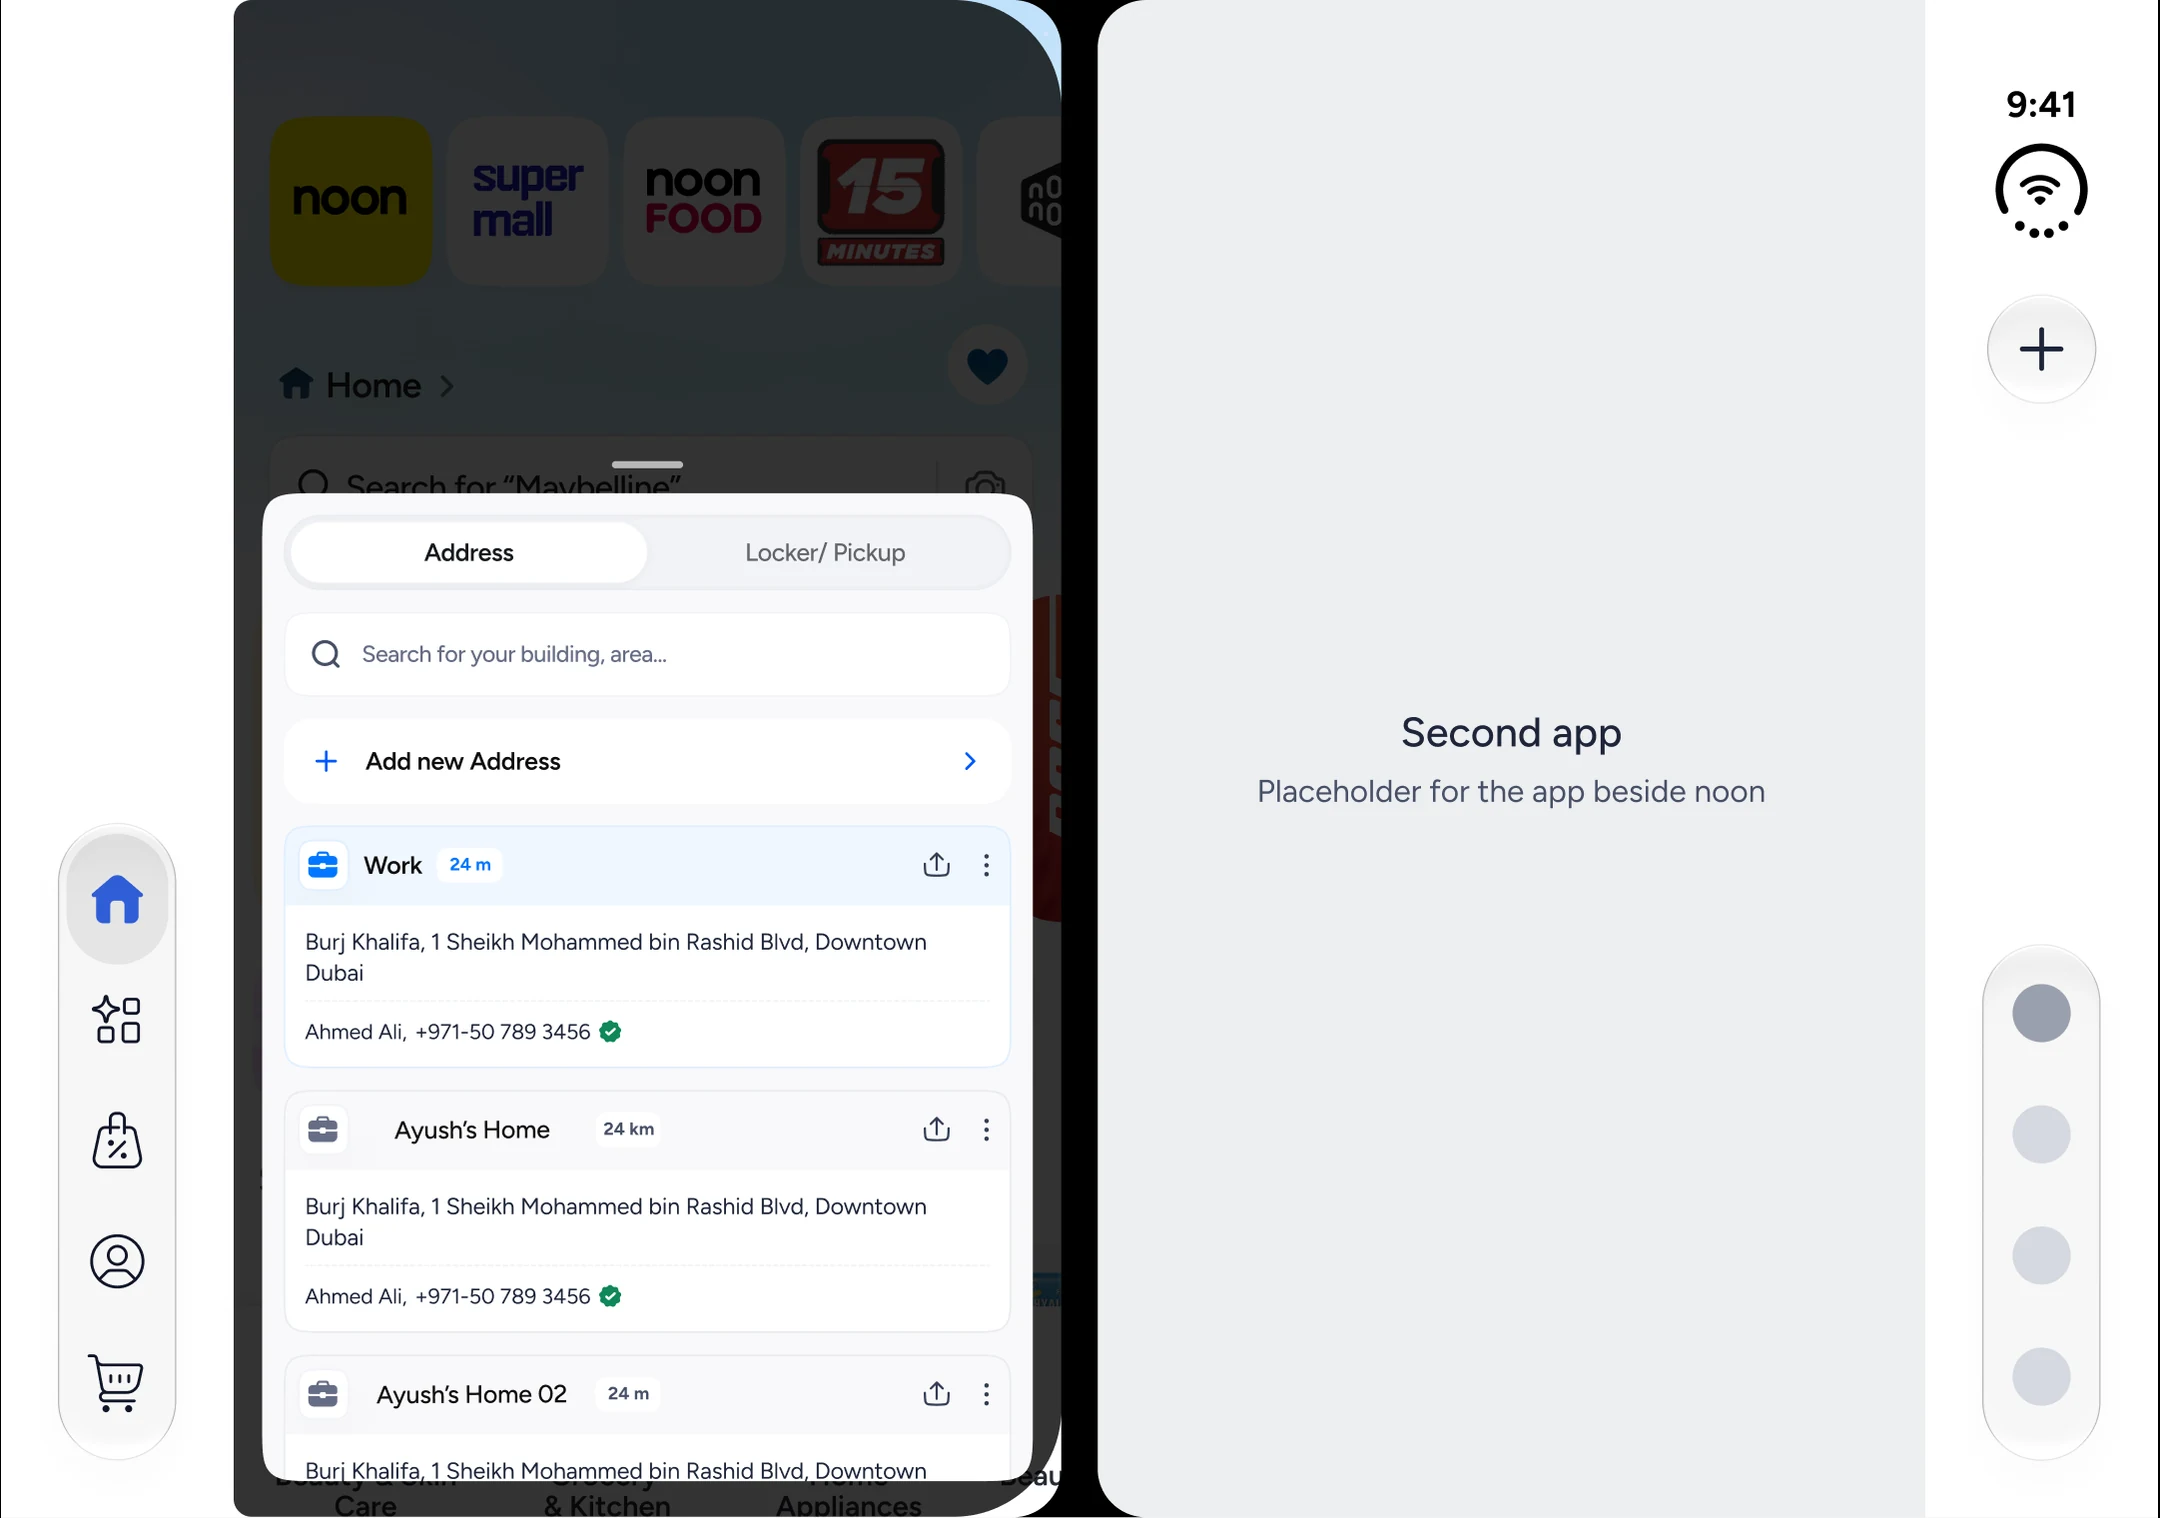
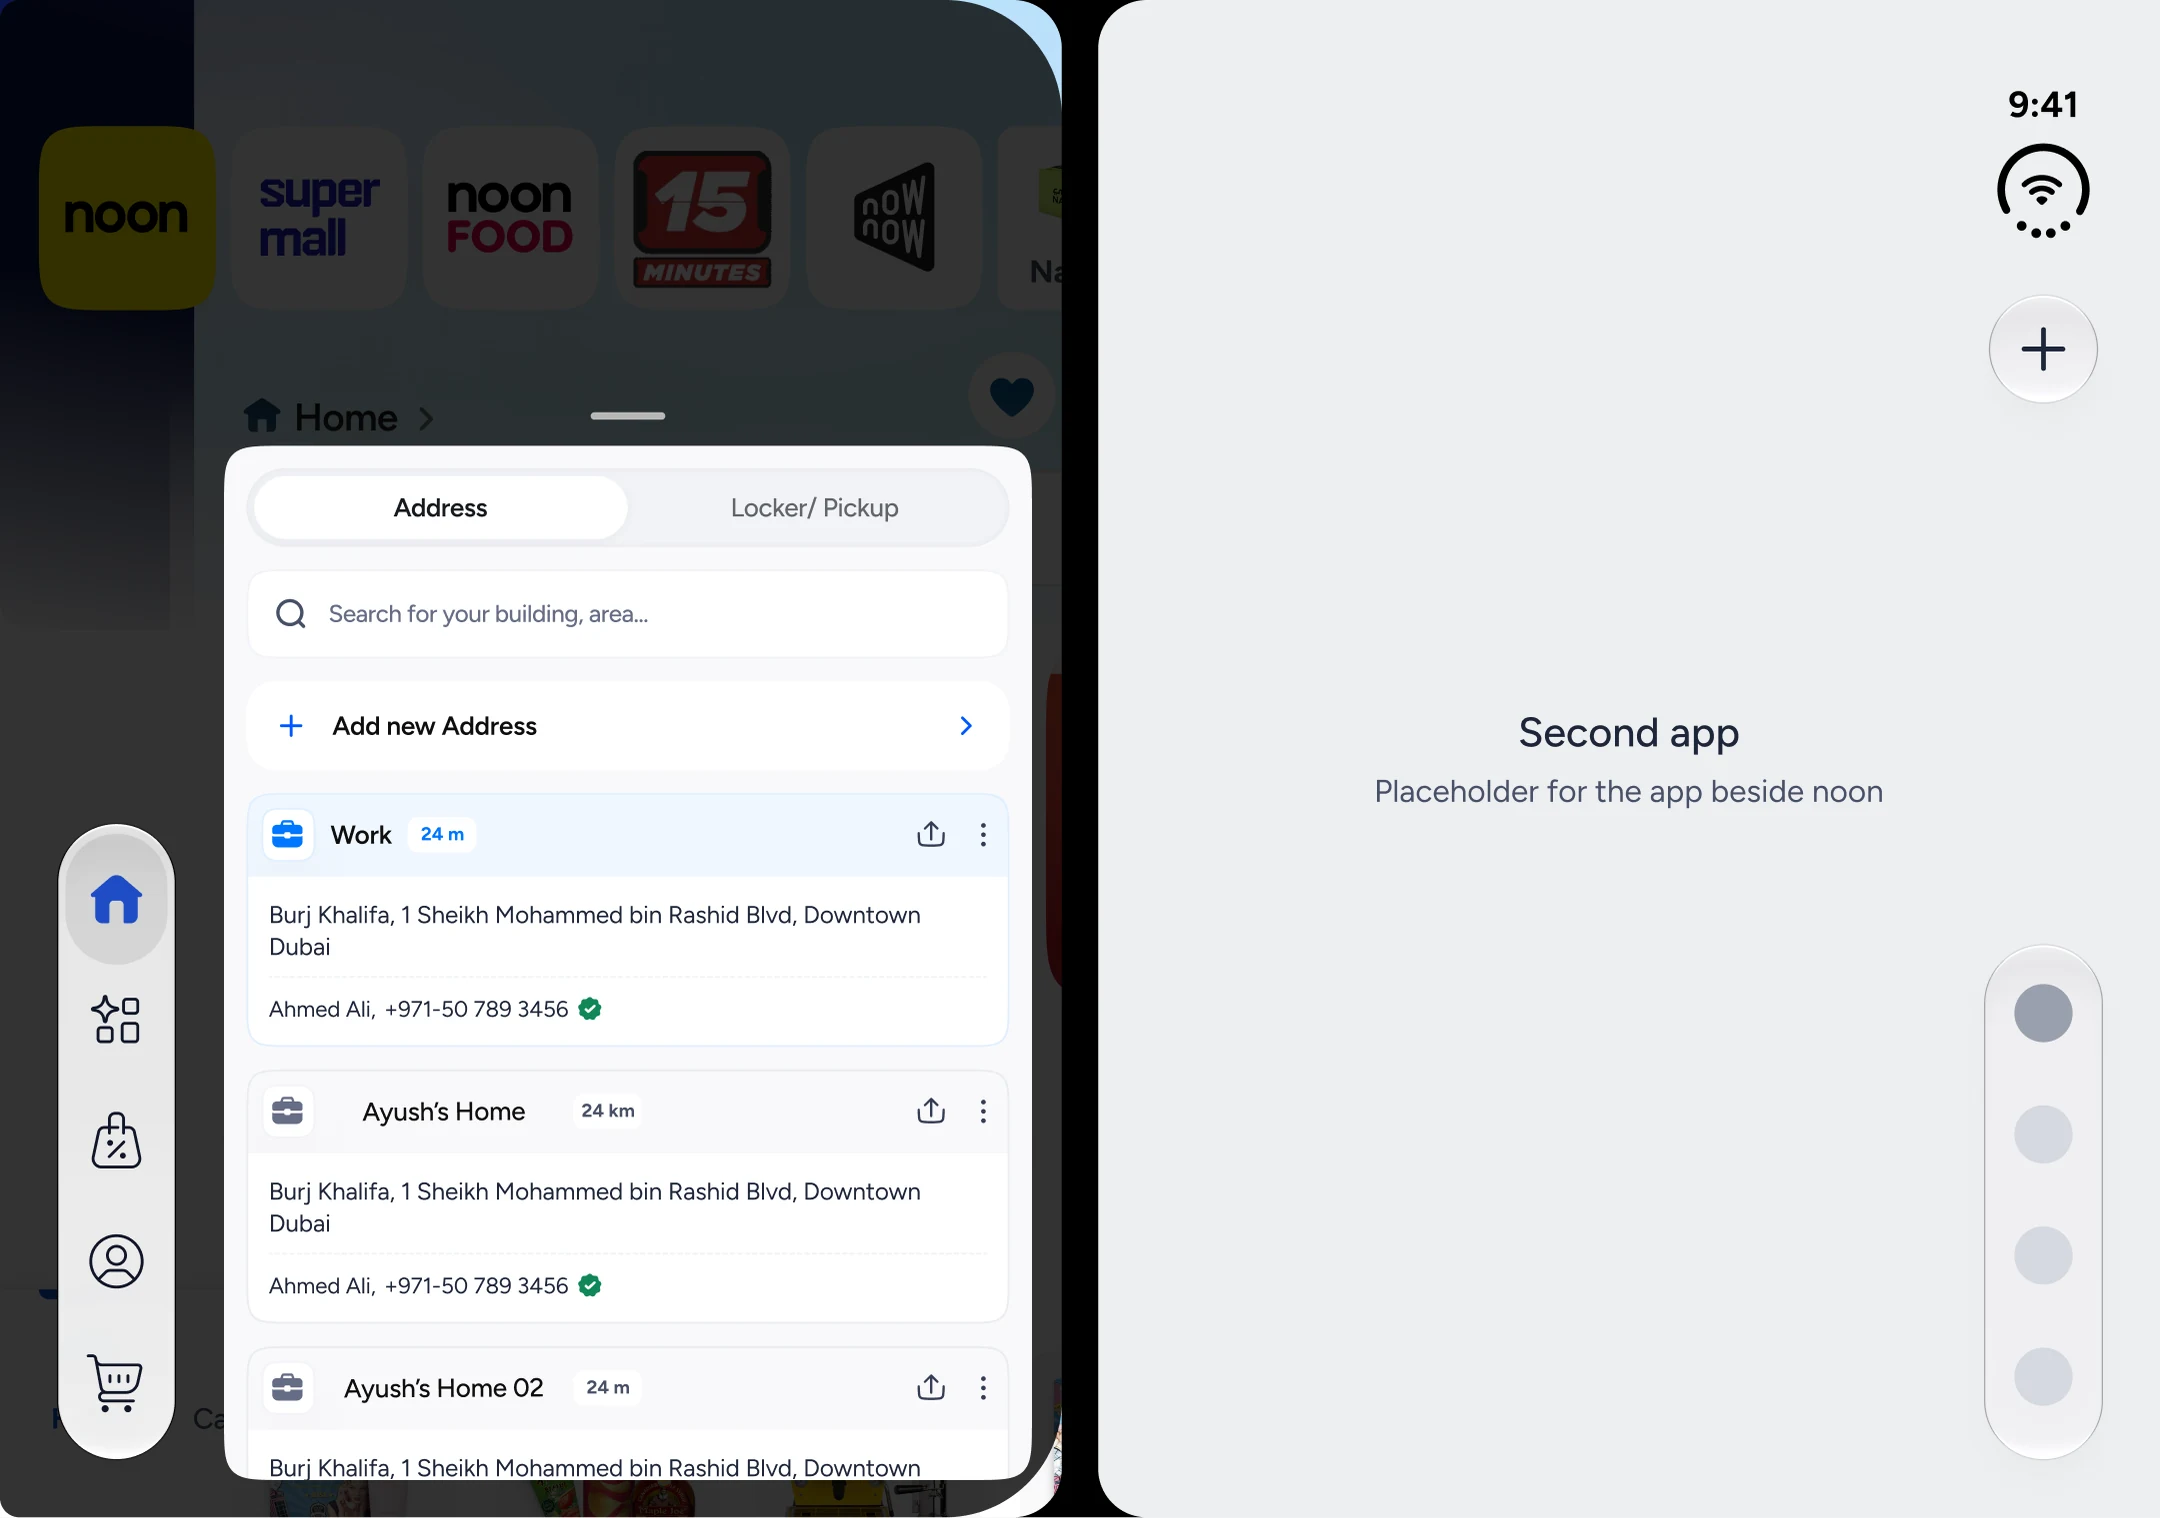
Split view: noon runs edge to edge under floating controls
The left strip was an empty white column beside a card of content. noon
now fills its whole half: text and buttons stay clear of the controls,
while backgrounds, carousels and the bottom action bars run beneath them,
so the controls float over the app as in the landscape layout. The
placeholder app on the right is full-bleed the same way.

diff --git a/README.md b/README.md
@@ -54,7 +54,7 @@ PY
 
 The toggle beside the fold control has three layouts. Portrait turns the open device a quarter clockwise into portrait and swaps in the `-inner-portrait` layout at the diagonal. The turn scales with how far the device is open, so folding it shut always lands upright on the cover. The portrait layouts are the **Duo Open - Inner Screen - Portrait** column of the iPhone Duo Figma file.
 
-Split view stays in landscape and crossfades to two apps side by side, following Apple's split layout: each app keeps its controls on its outer edge, and status sits in the right app's strip. noon is the left app, built from each screen's cover design (content plus its own side controls, scaled to the pane); the right app is a placeholder. These are the **Duo Open - Inner Screen - Split View** column in Figma.
+Split view stays in landscape and crossfades to two apps side by side, following Apple's split layout: each app keeps its controls on its outer edge, and status sits in the right app's strip. noon is the left app, built from each screen's cover design: its content runs edge to edge with the side controls floating over it. Text and buttons sit clear of the controls, while backgrounds, carousels and bottom bars run beneath them. The right app is a placeholder. These are the **Duo Open - Inner Screen - Split View** column in Figma.
 
 ## Assets
 
